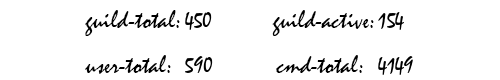
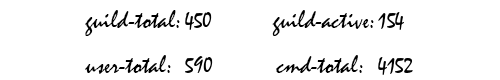
fix(main): update reply of /login to inform user do it at private message, add log-bot-user to log /login cmd

Changed region(s): [[0.78, 0.7, 0.84, 0.925]]

diff --git a/code/main.py b/code/main.py
@@ -14,7 +14,7 @@ from khl import (Bot, Client, Event, EventTypes, Message, PrivateMessage,
 from khl.card import Card, CardMessage, Element, Module, Types, Struct
 from khl.command import Rule
 
-from bot_log import logging, log_bot_list,APIRequestFailed_Handler, BaseException_Handler
+from bot_log import logging, log_bot_list, log_bot_user, APIRequestFailed_Handler, BaseException_Handler
 from endpoints import (caiyun_translate, icon_cm, is_CN, status_active_game,
                        status_active_music, status_delete, guild_view, upd_card, weather,
                        youdao_translate)
@@ -1719,11 +1719,15 @@ async def check_user_login_rate(msg: Message):
 @bot.command(name='login')
 async def login_authtoken(msg: Message, user: str = 'err', passwd: str = 'err', *arg):
     print(f"[{GetTime()}] Au:{msg.author_id}_{msg.author.username}#{msg.author.identify_num} = /login")
-    if passwd == 'err' or user == 'err':
-        await msg.reply(f"参数不完整，请提供您的账户和密码！\naccout: `{user}` passwd: `{passwd}`\n正确用法：`/login 账户 密码`")
+    log_bot_user(msg.author_id) #这个操作只是用来记录用户和cmd总数的
+    if not isinstance(msg, PrivateMessage): # 不是私聊的话，禁止调用本命令
+        await msg.reply(f"为了避免您的账户信息泄漏，请「私聊」使用本命令！\n用法：`/login 账户 密码`")
+        return
+    elif passwd == 'err' or user == 'err':
+        await msg.reply(f"参数不完整，请提供您的账户密码！\naccount: `{user}` passwd: `{passwd}`\n正确用法：`/login 账户 密码`")
         return
     elif arg != ():
-        await msg.reply(f"您给予了多余的参数！\naccout: `{user}` passwd: `{passwd}`\n多余参数: `{arg}`\n正确用法：`/login 账户 密码`")
+        await msg.reply(f"您给予了多余的参数，请检查后重试\naccount: `{user}` passwd: `{passwd}`\n多余参数: `{arg}`\n正确用法：`/login 账户 密码`")
         return
     elif Login_Forbidden:
         await Login_Forbidden_send(msg)
